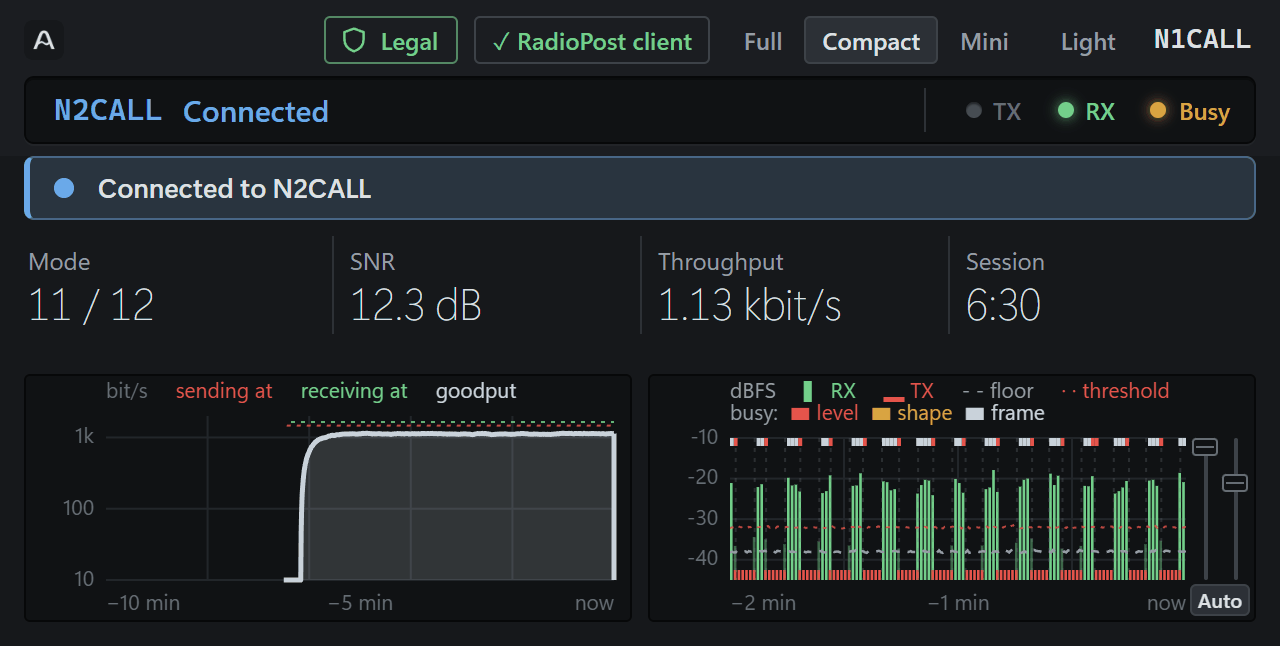
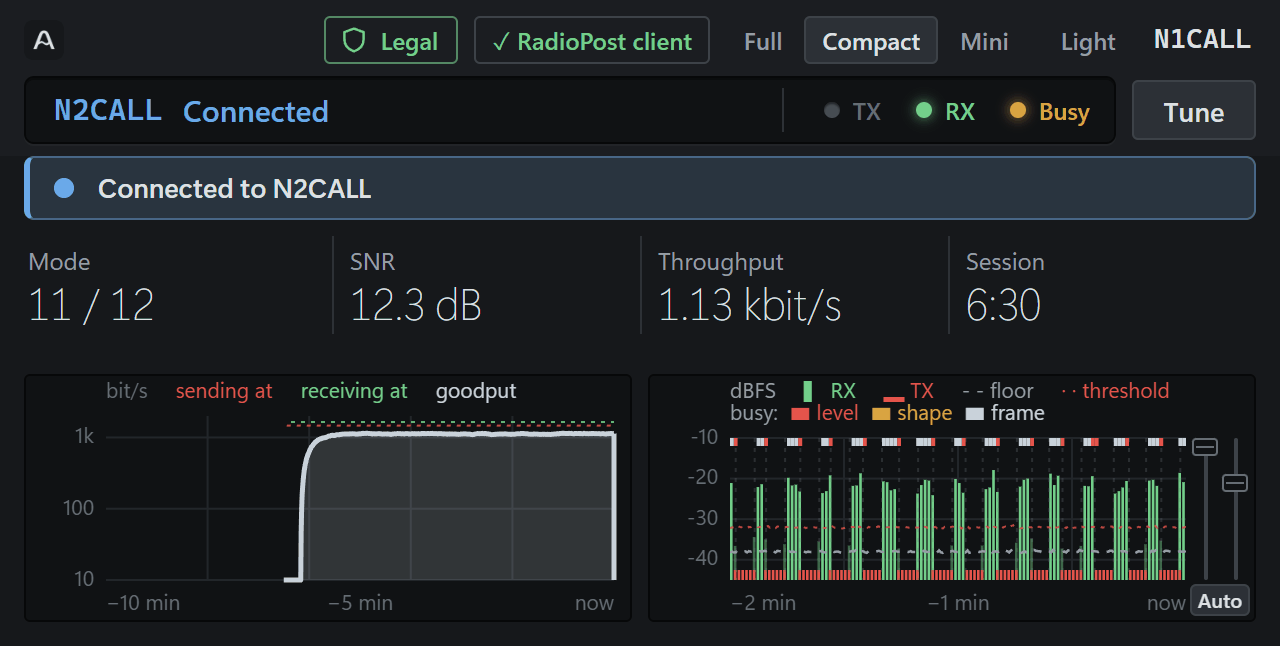
feat(panel): Tune in Compact and Mini, beside the display well
Compact had no way to send a tuner tone. Tune now sits at the end of the
display well's row, outside the well (it holds no controls): the well's
middle is empty at every width the small views open at, where a button in
the header's row would shorten the chips or wrap the row. In Full the
row is no box of its own (`display: contents`), and Tune is not there.

It is the Session tab's Tuner tone, one path: `toggleTune` and
`tuneButton` drive both buttons, so a tone started from one is stopped
from the other. It keeps one width whether it says Tune or Stop. A
refusal is said in the well in the state's place for eight seconds, in
the caution colour (`sayInWell`, `#strip-said`), so nothing moves; under
470 px it takes the lamps' room too for those seconds, or it read
"Cannot ...". Mini has it as well: it costs no height there either.

Checked against the panel fed made-up data (the manual's screens.mjs),
before and after, Compact and Mini at 800/640/520/440/360 px in both
themes, idle and in a session: the header row, the readings, the plots and
the page height are where they were; the well is 70 px narrower and its
lamps move with its edge. Full is pixel-identical. Under about 510 px in a
session the state's word gives way sooner (as it already did at 360 with
a long callsign); the session banner below says it whole.

The manual (1.12.0): Tune in "Full, Compact and Mini", a pointer from
Tuner tone, the Compact and Mini screenshots.

Changed region(s): [[0.625, 0.1238, 1.0, 0.2167]]

diff --git a/app/ui/index.html b/app/ui/index.html
@@ -31,18 +31,23 @@
         <img class="brand-mark" src="mark.png" alt="" width="20" height="20" />
         <span class="brand-name">Aether <span class="brand-hf">HF</span></span>
       </h1>
-      <!-- the display well: what an operator reads at a glance, on every tab -->
-      <div class="strip" id="strip" title="The station at a glance: what it is doing, the dial, the rung and the signal">
-        <span class="strip-who" id="strip-who" data-state="disconnected" title="The other station in the call or session" hidden></span>
-        <span class="strip-state" id="strip-state" data-state="disconnected" title="What the modem is doing now">Not connected</span>
-        <span class="dial" id="dial" title="Dial frequency, as the radio reports it over CAT, rigctld or FLRig" hidden></span>
-        <span class="strip-reading" id="strip-rung" title="The rung the data is moving at and its rate on the air: ↓ while receiving, ↑ while sending" hidden></span>
-        <span class="strip-reading" id="strip-snr" title="Signal-to-noise ratio of the last frame this receiver found, referenced to 3 kHz" hidden></span>
-        <div class="indicators" role="group" aria-label="Indicators">
-          <span class="lamp" id="lamp-ptt" title="Transmitter: lit while the radio is keyed" role="img" aria-label="Transmitter off">TX</span>
-          <span class="lamp" id="lamp-rx" title="Receive: lit while a burst is arriving" role="img" aria-label="Nothing arriving">RX</span>
-          <span class="lamp" id="lamp-busy" title="Busy: lit while the channel carries a signal — the level over the threshold, a narrowband signal's shape in the passband, or a decoded frame" role="img" aria-label="Channel clear">Busy</span>
+      <!-- the display well: what an operator reads at a glance, on every tab; in Compact and
+           Mini the tuner tone beside it -->
+      <div class="well-row">
+        <div class="strip" id="strip" title="The station at a glance: what it is doing, the dial, the rung and the signal">
+          <span class="strip-who" id="strip-who" data-state="disconnected" title="The other station in the call or session" hidden></span>
+          <span class="strip-state" id="strip-state" data-state="disconnected" title="What the modem is doing now">Not connected</span>
+          <span class="dial" id="dial" title="Dial frequency, as the radio reports it over CAT, rigctld or FLRig" hidden></span>
+          <span class="strip-reading" id="strip-rung" title="The rung the data is moving at and its rate on the air: ↓ while receiving, ↑ while sending" hidden></span>
+          <span class="strip-reading" id="strip-snr" title="Signal-to-noise ratio of the last frame this receiver found, referenced to 3 kHz" hidden></span>
+          <span class="strip-said" id="strip-said" title="What the modem answered when it refused the tone" role="status" hidden></span>
+          <div class="indicators" role="group" aria-label="Indicators">
+            <span class="lamp" id="lamp-ptt" title="Transmitter: lit while the radio is keyed" role="img" aria-label="Transmitter off">TX</span>
+            <span class="lamp" id="lamp-rx" title="Receive: lit while a burst is arriving" role="img" aria-label="Nothing arriving">RX</span>
+            <span class="lamp" id="lamp-busy" title="Busy: lit while the channel carries a signal — the level over the threshold, a narrowband signal's shape in the passband, or a decoded frame" role="img" aria-label="Channel clear">Busy</span>
+          </div>
         </div>
+        <button id="btn-compact-tune" aria-pressed="false" title="Key the radio with a steady tone at the transmit level for ten seconds, for an antenna tuner; press again to stop. Refused during a session and while the channel is busy, and judged by the rules first">Tune</button>
       </div>
       <div class="head-right">
         <button class="reg-badge" id="reg-badge" data-verdict="unknown" aria-expanded="false" aria-controls="reg-detail" title="Whether this station may transmit here under the rules it operates under; click for the reasoning" hidden>

diff --git a/app/ui/app.js b/app/ui/app.js
@@ -5639,15 +5639,19 @@ async function finishSetupSave(answer) {
   refreshStatus();
 }
 
-async function transmitTest(method, seconds, label) {
+// `said`, when given, is told the modem's refusal too (and "" on success): Compact's Tune, whose
+// window has no Keying and drive box to show it.
+async function transmitTest(method, seconds, label, said = null) {
   $("wz-tx-note").textContent = `${label}…`;
   try {
     await call(method, { duration_s: seconds });
     $("wz-tx-note").textContent = `${label} — watch the radio.`;
+    said?.("");
     log(label);
     return true;
   } catch (error) {
     $("wz-tx-note").textContent = error.message;
+    said?.(error.message);
     log(error.message, true);
     return false;
   }
@@ -5697,11 +5701,31 @@ async function saveTxLevel() {
   }
 }
 
+// The tone has two buttons and one path: the Session tab's Tuner tone and Compact's Tune (shown
+// in Mini too, beside the display well), so a tone started in one view is stopped from the
+// other.
 function tuneButton(playing) {
   $("wz-tune").textContent = playing ? "Stop the tone" : "Tuner tone";
-  $("wz-tune").setAttribute("aria-pressed", String(playing));
+  $("btn-compact-tune").textContent = playing ? "Stop" : "Tune";
+  for (const id of ["wz-tune", "btn-compact-tune"]) {
+    $(id).setAttribute("aria-pressed", String(playing));
+  }
   clearTimeout(tuneTimer);
   tuneTimer = playing ? setTimeout(() => tuneButton(false), TUNE_SECONDS * 1000 + 500) : null;
+}
+
+// Why Compact's Tune did not key, in the display well in the state's place for a few seconds:
+// a line of its own would move the readings and plots, and in Mini push them out of the window.
+let wellSaidTimer = null;
+
+function sayInWell(text) {
+  const said = $("strip-said");
+  clearTimeout(wellSaidTimer);
+  said.textContent = text;
+  said.title = text || "What the modem answered when it refused the tone";
+  said.hidden = !text;
+  $("strip").classList.toggle("saying", Boolean(text));
+  if (text) wellSaidTimer = setTimeout(() => sayInWell(""), 8000);
 }
 
 // A drive check is real bursts, not a tone: measured at the sound card the waveform's peaks
@@ -5764,7 +5788,8 @@ function applyTxPeak(dbfs) {
   box.classList.toggle("warn", dbfs > -3 && dbfs <= -1);
 }
 
-async function toggleTune() {
+// `said`: where else to say a refusal (Compact's display well), as `transmitTest` takes it.
+async function toggleTune(said = null) {
   if ($("wz-tune").getAttribute("aria-pressed") === "true") {
     tuneButton(false);
     try {
@@ -5772,10 +5797,16 @@ async function toggleTune() {
       $("wz-tx-note").textContent = "Tone stopped.";
     } catch (error) {
       $("wz-tx-note").textContent = error.message;
+      said?.(error.message);
     }
     return;
   }
-  const started = await transmitTest("tune", TUNE_SECONDS, `Tuner tone for ${TUNE_SECONDS} s`);
+  const started = await transmitTest(
+    "tune",
+    TUNE_SECONDS,
+    `Tuner tone for ${TUNE_SECONDS} s`,
+    said,
+  );
   if (started) tuneButton(true);
 }
 
@@ -6749,7 +6780,8 @@ function wire() {
     writeConfig();
   });
   $("wz-ptt").addEventListener("click", () => transmitTest("ptt.test", 1.0, "Keyed for 1 s"));
-  $("wz-tune").addEventListener("click", toggleTune);
+  $("wz-tune").addEventListener("click", () => toggleTune());
+  $("btn-compact-tune").addEventListener("click", () => toggleTune(sayInWell));
   $("wz-drive").addEventListener("click", toggleDrive);
   $("tx-level").addEventListener("input", () => showTxLevel(txLevel()));
   $("tx-level").addEventListener("change", saveTxLevel);

diff --git a/app/ui/style.css b/app/ui/style.css
@@ -338,6 +338,35 @@ header.bar {
   color: var(--status-error);
 }
 
+/* What the modem answered when it refused Compact's tuner tone: in the state's place for a few
+   seconds, in the caution colour, so nothing in the window moves to make room for it; the
+   whole of it is in the tooltip when the well cuts it short. */
+.strip-said {
+  font: 600 var(--fs-md) / 1 var(--face);
+  color: var(--status-warning);
+  padding-right: 16px;
+  min-width: 0;
+  flex: 0 1 auto;
+  overflow: hidden;
+  text-overflow: ellipsis;
+}
+
+body:not(.compact) .strip-said,
+body.compact .strip.saying > .strip-who,
+body.compact .strip.saying > .strip-state {
+  display: none;
+}
+
+/* The well's row: in Full the well alone (the row is no box of its own), in Compact and Mini
+   the well with the tuner tone beside it. */
+.well-row {
+  display: contents;
+}
+
+#btn-compact-tune {
+  display: none;
+}
+
 /* the dial, read like a rig's display: the largest figures on the panel */
 .dial {
   font: 300 21px / 1 var(--display);
@@ -4219,14 +4248,36 @@ body.compact header.bar {
   border-bottom: 0;
 }
 
-body.compact .strip {
+/* The well has a row of its own, and Tune sits at its end, outside it: the well holds no
+   controls. The row is where the room is: the well's middle is empty at every width the small
+   views open at, where a button in the header's row would shorten the chips or wrap the row.
+   Tune keeps one width whether it says Tune or Stop, so the lamps never shift when it is
+   pressed. */
+body.compact .well-row {
   order: 3;
   flex: 1 0 100%;
+  min-width: 0;
+  display: flex;
+  align-items: center;
+  gap: var(--s2);
+}
+
+/* `order: 0` against the narrow Full window's rule, which puts the well on a row of its own */
+body.compact .well-row > .strip {
+  order: 0;
+  flex: 1 1 auto;
   height: 34px;
 }
 
+body.compact #btn-compact-tune {
+  display: inline-flex;
+  flex: none;
+  min-width: 4.6em;
+}
+
 body.compact .strip-state,
-body.compact .strip-who {
+body.compact .strip-who,
+body.compact .strip-said {
   font-size: var(--fs-lg);
 }
 
@@ -4400,6 +4451,12 @@ body.compact.fitting:not(.mini) #history-card canvas {
 
   body.compact .status-readings .tiles > .tile:nth-child(n + 3) {
     border-top: 1px solid var(--border);
+  }
+
+  /* a refusal of the tone takes the lamps' room too, for its few seconds: beside them, in a
+     window this narrow, it read "Cannot …" */
+  body.compact .strip.saying > .indicators {
+    display: none;
   }
 }
 

diff --git a/docs/manual/manual.md b/docs/manual/manual.md
@@ -5,7 +5,7 @@
 | | |
 |---|---|
 | **Status** | Current |
-| **Version** | 1.11.1 |
+| **Version** | 1.12.0 |
 | **Updated** | 2026-11-19 |
 | **Describes** | Aether HF 0.2.0-beta.166 |
 | **Licence** | CC BY 4.0 |
@@ -303,14 +303,18 @@ two small plots side by side: the speed over the last ten minutes (or the SNR, i
 in Full) and the channel's activity. **Mini** is the state and the four readings alone, for a
 corner of the screen.
 
-![Aether in Compact: the header's display, four link readings and two small plots](screens/compact.png)
+![Aether in Compact: the header's display with Tune beside it, four link readings and two small plots](screens/compact.png)
 
 *Figure 7. Compact: the readings and two plots.*
 
-![Aether in Mini: the header's display and four readings in a small window](screens/mini.png)
+![Aether in Mini: the header's display with Tune beside it, and four readings in a small window](screens/mini.png)
 
 *Figure 8. Mini: for a corner of the screen.*
 
+- **Tune**, beside the display in Compact and Mini, is the Session tab's *Tuner tone*: a steady
+  tone for ten seconds, for an antenna tuner. While the tone plays it reads **Stop**; press it to
+  stop. If the modem refuses the tone (a session, a busy channel, the rules), the display says why
+  for a few seconds, in place of the state.
 - The plots in Compact take whatever height the window has: make the window taller for taller
   plots. When a banner comes up, the plots get shorter for as long as it shows.
 - Compact has no **Axes** button, but the chart keeps its two level sliders and **Auto**. Change
@@ -689,6 +693,7 @@ Click the box's heading to open it.
   whether the radio's receive audio changed while it was keyed. A radio that transmits goes quiet
   (or plays back its own signal); if the audio stayed the same as the band, the radio did not key.
 - **Tuner tone**: a steady tone for ten seconds, for an antenna tuner. Do not set drive with it.
+  Compact and Mini have it as **Tune** ([Full, Compact and Mini](#full-compact-and-mini)).
 - **Set drive**: four six-second bursts of Aether's real signal, five seconds apart.
 - **Transmit level**: the slider, in dB below full scale. **Last transmit peak** is the modem's
   own headroom.
@@ -1608,3 +1613,4 @@ in `CONTRIBUTING.md` and `docs/MAINTAINING.md`.
 | 1.10.1 | 2026-11-19 | [Finding an Aether gateway](#finding-an-aether-gateway): Aether gateways are listed under Winlink's service code `AETHER`; how to see them in Winlink Express and Pat, and how a gateway publishes under it. |
 | 1.11.0 | 2026-11-19 | [Winlink Express, Pat and VarAC](#21-winlink-express-pat-and-varac): VarAC's **TUNE** button plays Aether's tuner tone, at Aether's transmit level. |
 | 1.11.1 | 2026-11-19 | [Full, Compact and Mini](#full-compact-and-mini) and [Arranging the windows](#arranging-the-windows): the window stays on its screen. Going from Compact or Mini to Full, it grows to the left or upwards where the screen's edge or the taskbar is in the way, and at start a window that would run off its screen moves back onto it. |
+| 1.12.0 | 2026-11-19 | **Tune** in Compact and Mini, beside the display: the Session tab's *Tuner tone*, stopped by a second press; a refusal shows in the display for a few seconds ([Full, Compact and Mini](#full-compact-and-mini)). |
